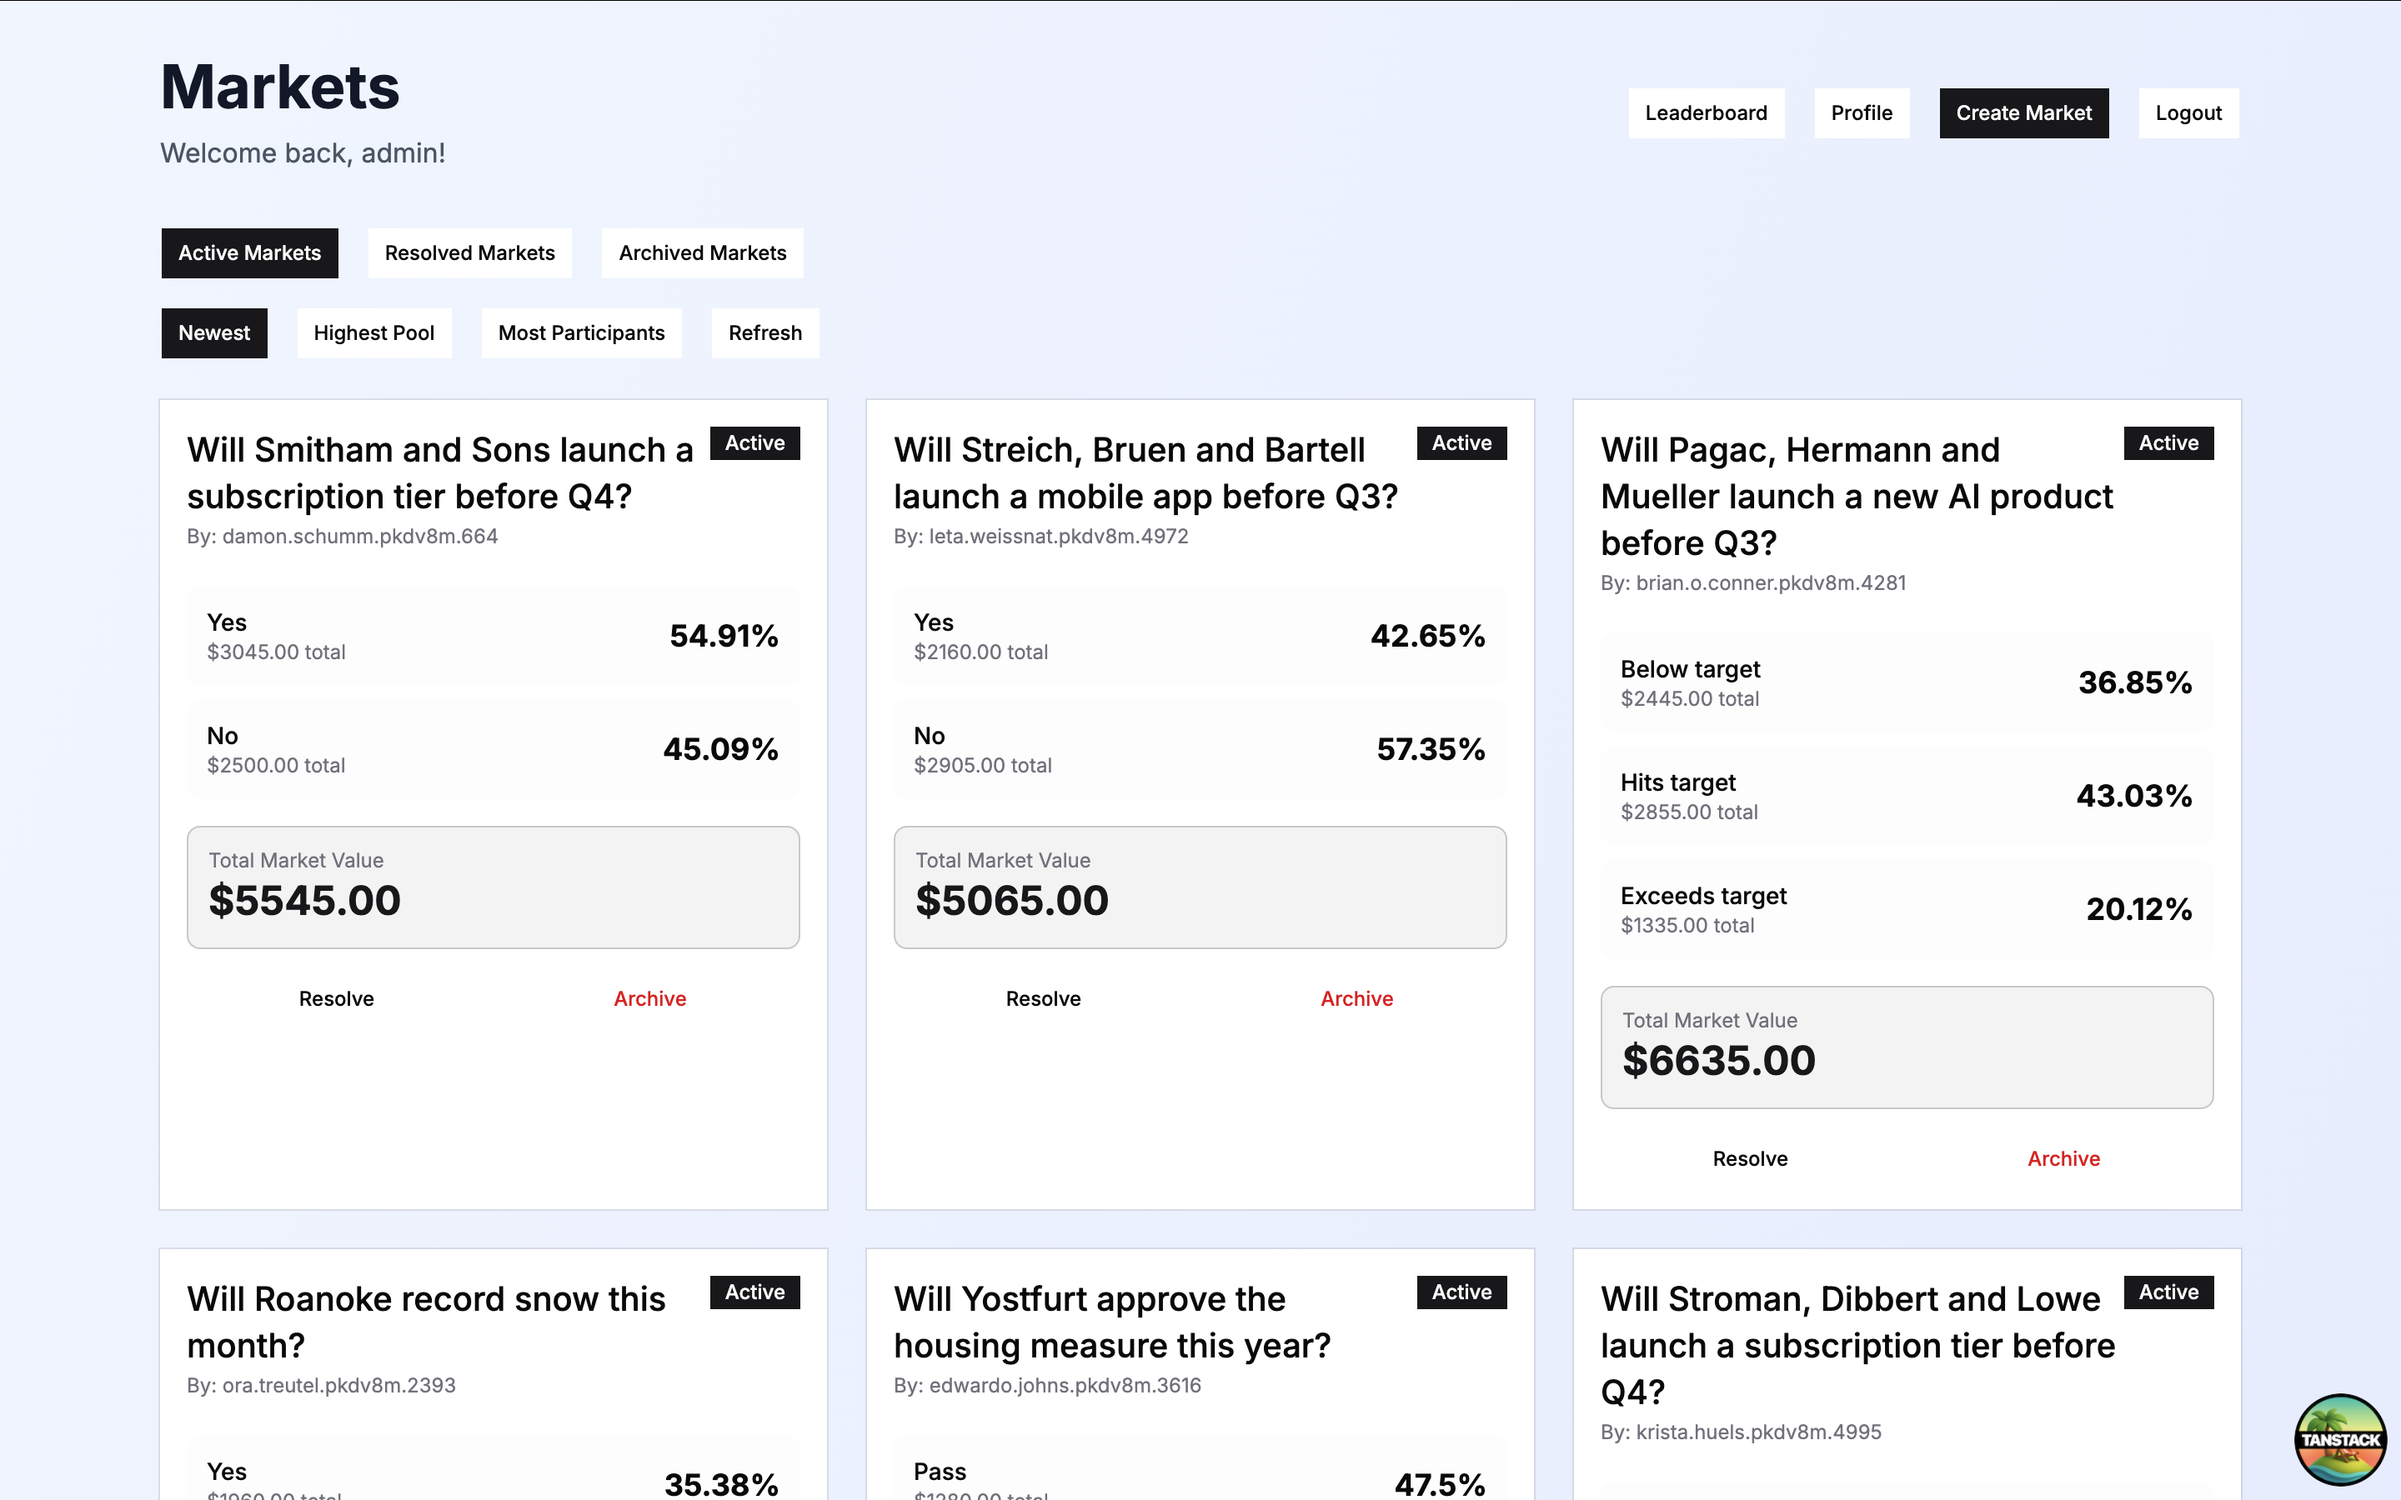
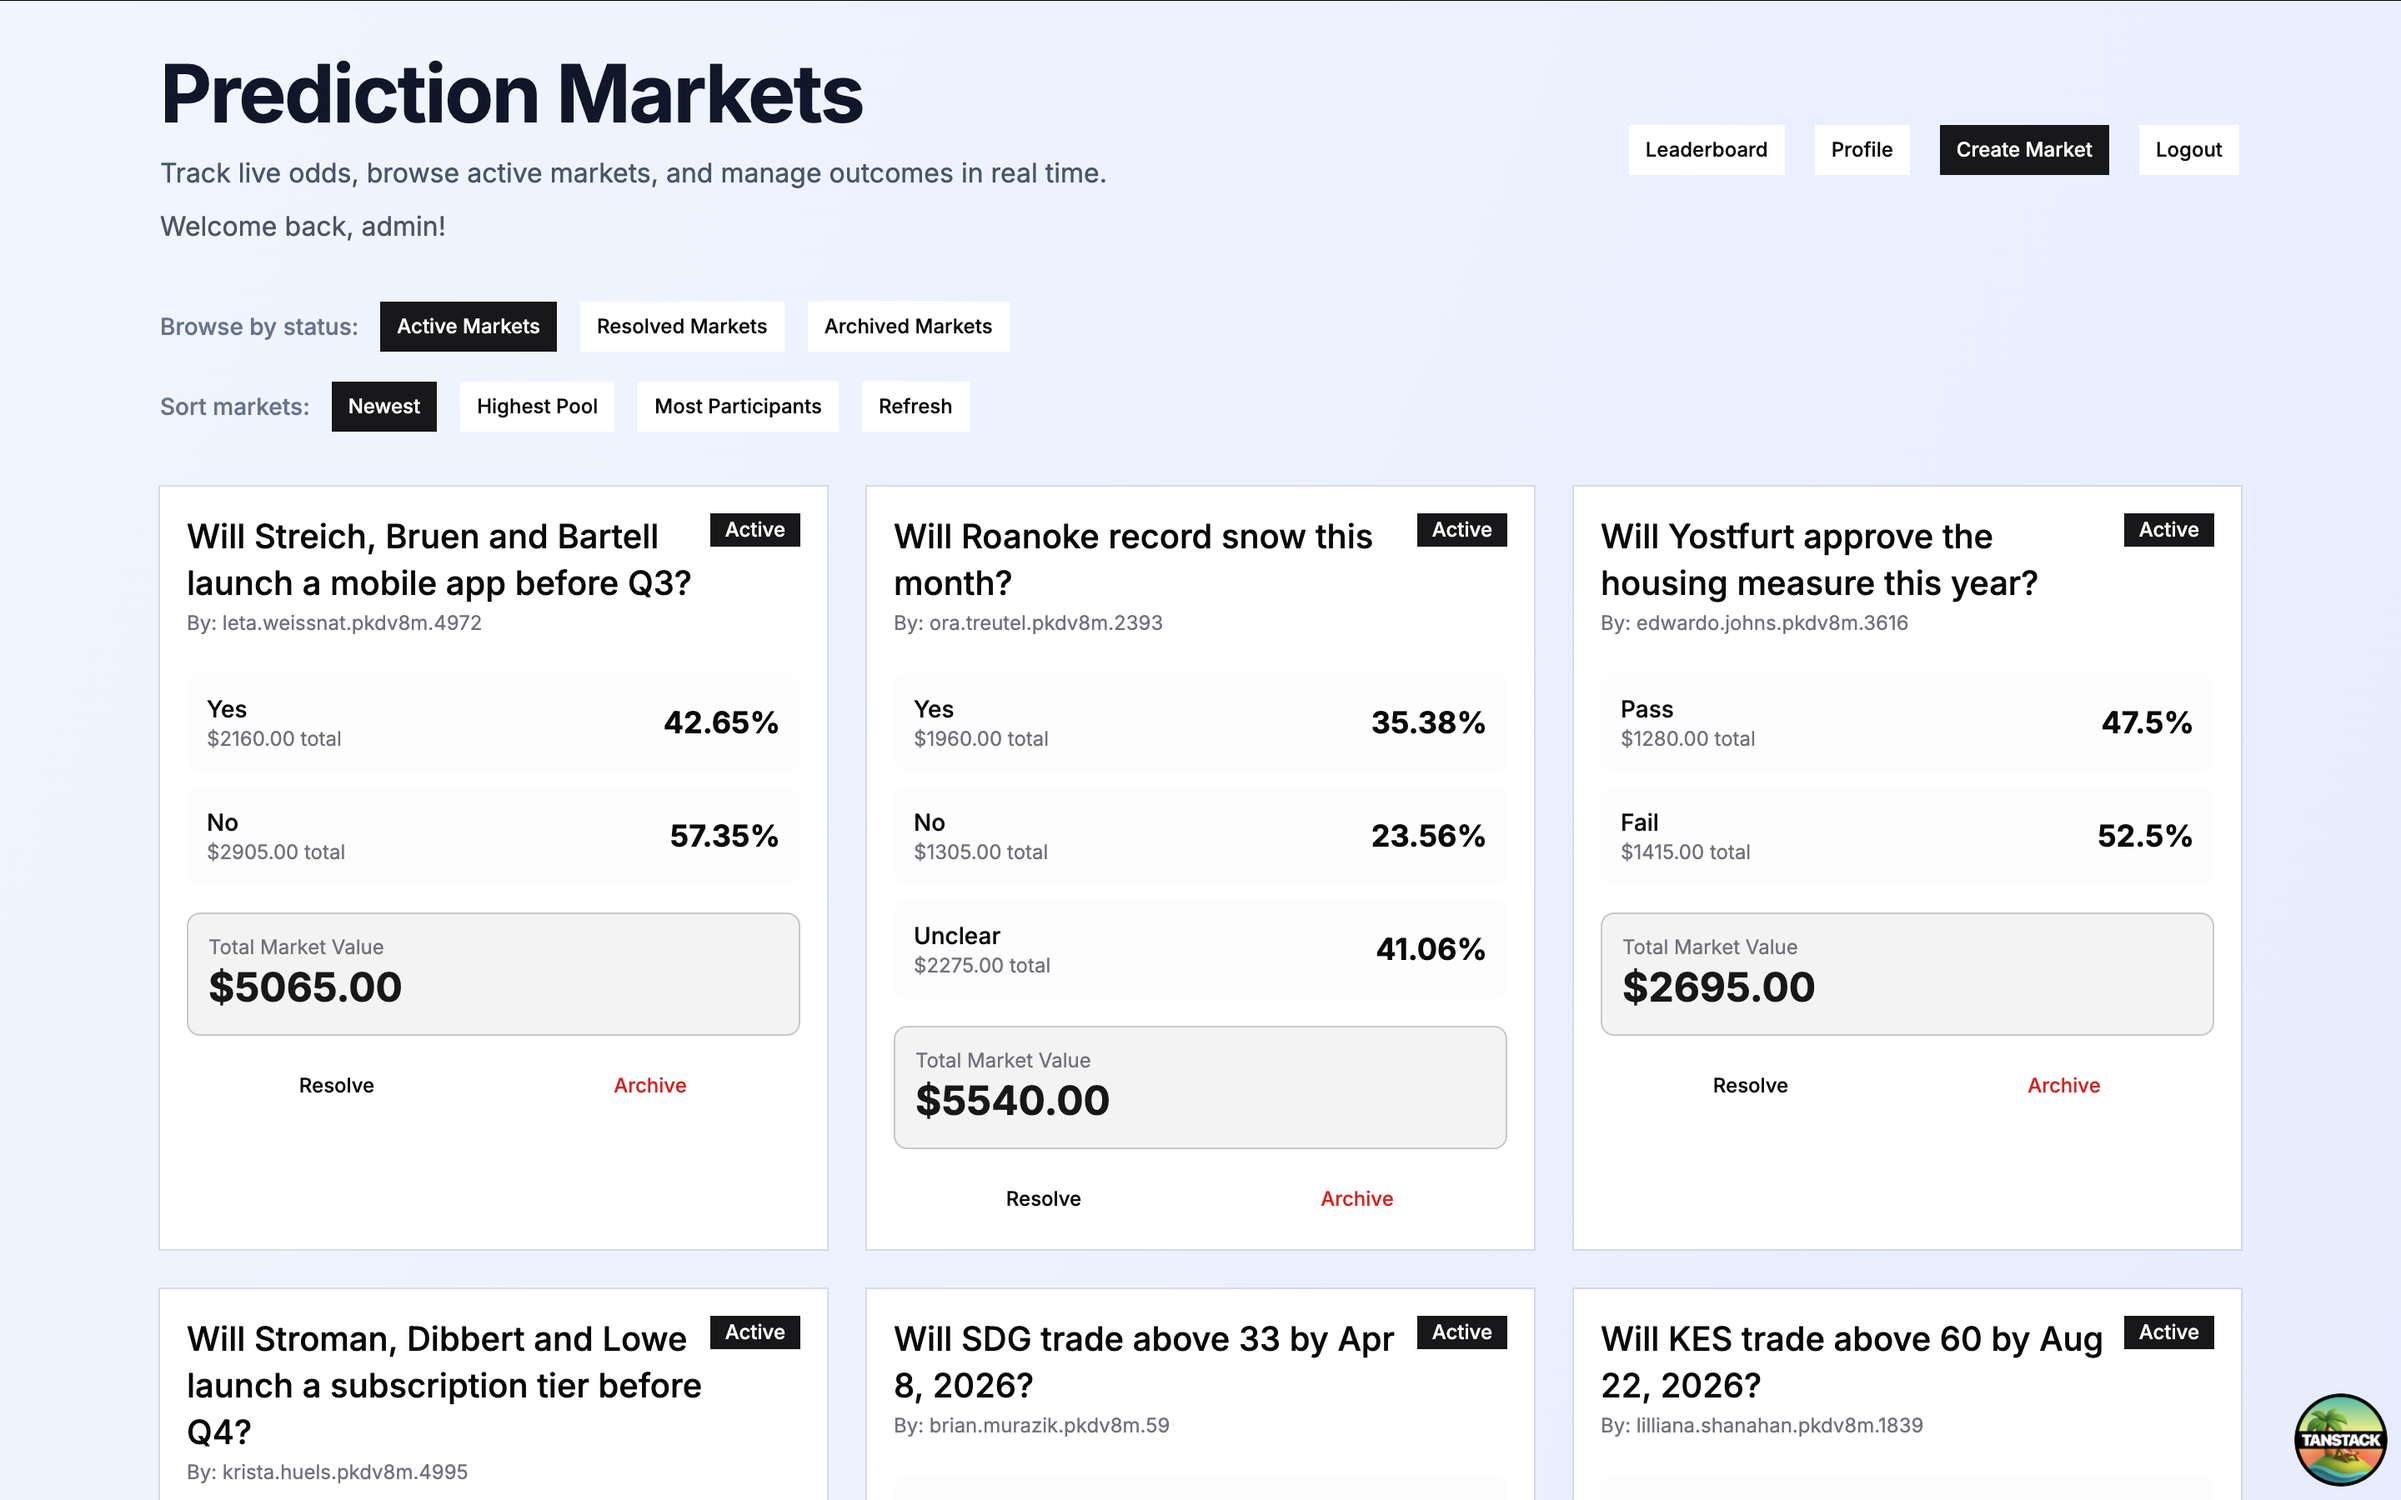
docs: improve README and refine profile page UI

diff --git a/client/src/components/market-card.tsx b/client/src/components/market-card.tsx
@@ -29,6 +29,7 @@ export function MarketCard({ market, isAdmin }: MarketCardProps) {
   const navigate = useNavigate();
   const [isArchiving, setIsArchiving] = useState(false);
   const [isArchiveDialogOpen, setIsArchiveDialogOpen] = useState(false);
+
   const handleArchive = async () => {
     try {
       setIsArchiving(true);
@@ -42,7 +43,7 @@ export function MarketCard({ market, isAdmin }: MarketCardProps) {
   };
 
   return (
-    <Card>
+    <Card className="flex flex-col">
       <CardHeader>
         <div className="flex items-start justify-between">
           <div className="flex-1">
@@ -59,8 +60,8 @@ export function MarketCard({ market, isAdmin }: MarketCardProps) {
         </div>
       </CardHeader>
 
-      <CardContent className="space-y-4">
-        {/* Outcomes */}
+      <CardContent className="flex flex-col flex-1 space-y-4">
+        {/* Outcomes — cresc cât au nevoie, indiferent de câte sunt */}
         <div className="space-y-2">
           {market.outcomes.map((outcome) => (
             <div
@@ -80,92 +81,95 @@ export function MarketCard({ market, isAdmin }: MarketCardProps) {
           ))}
         </div>
 
-        {/* Total Market Value */}
-        <div className="p-3 rounded-md border border-primary/20 bg-primary/5">
-          <p className="text-xs text-muted-foreground">Total Market Value</p>
-          <p className="text-2xl font-bold text-primary">
-            ${market.totalMarketBets.toFixed(2)}
-          </p>
-        </div>
+        {/* Spacer — împinge TMV + buton mereu în jos */}
+        <div className="flex-1" />
 
-        {/* Main Action */}
-        {!isAdmin && (
-          <Button
-            className="w-full"
-            onClick={() => navigate({ to: `/markets/${market.id}` })}
-          >
-            {market.status === "active" ? "Place Bet" : "View Results"}
-          </Button>
-        )}
+        {/* Bloc fix la baza cardului: TMV + acțiune */}
+        <div className="space-y-3">
+          <div className="p-3 rounded-md border border-primary/20 bg-primary/5">
+            <p className="text-xs text-muted-foreground">Total Market Value</p>
+            <p className="text-2xl font-bold text-primary">
+              ${market.totalMarketBets.toFixed(2)}
+            </p>
+          </div>
 
-        {/* Admin Shortcuts */}
-        {isAdmin && market.status === "active" && (
-          <div className="flex gap-2">
+          {!isAdmin && (
             <Button
-              size="sm"
-              variant="outline"
-              className="flex-1"
+              className="w-full"
               onClick={() => navigate({ to: `/markets/${market.id}` })}
             >
-              Resolve
+              {market.status === "active" ? "Place Bet" : "View Results"}
             </Button>
+          )}
 
-            <Dialog
-              open={isArchiveDialogOpen}
-              onOpenChange={setIsArchiveDialogOpen}
-            >
-              <DialogTrigger asChild>
-                <Button
-                  size="sm"
-                  variant="outline"
-                  className="flex-1 border-red-300 text-red-600 hover:bg-red-50"
-                  disabled={isArchiving}
-                >
-                  Archive
-                </Button>
-              </DialogTrigger>
+          {isAdmin && market.status === "active" && (
+            <div className="flex gap-2">
+              <Button
+                size="sm"
+                variant="outline"
+                className="flex-1"
+                onClick={() => navigate({ to: `/markets/${market.id}` })}
+              >
+                Resolve
+              </Button>
 
-              <DialogContent>
-                <DialogHeader>
-                  <DialogTitle>Archive market</DialogTitle>
-                  <DialogDescription>
-                    This will close the market and refund all placed bets back
-                    to users.
-                  </DialogDescription>
-                </DialogHeader>
-
-                <div className="rounded-md border border-slate-200 bg-slate-50 p-4">
-                  <p className="text-sm text-muted-foreground">
-                    No winning outcome will be selected. All bettors will
-                    receive their original stake back.
-                  </p>
-                </div>
-
-                <DialogFooter className="flex justify-between items-center pt-4">
+              <Dialog
+                open={isArchiveDialogOpen}
+                onOpenChange={setIsArchiveDialogOpen}
+              >
+                <DialogTrigger asChild>
                   <Button
-                    variant="ghost"
-                    onClick={() => setIsArchiveDialogOpen(false)}
-                    disabled={isArchiving}
-                  >
-                    Cancel
-                  </Button>
-
-                  <Button
+                    size="sm"
                     variant="outline"
-                    className="border-slate-900 text-slate-900 hover:bg-slate-100"
-                    onClick={async () => {
-                      await handleArchive();
-                      setIsArchiveDialogOpen(false);
-                    }}
+                    className="flex-1 border-red-300 text-red-600 hover:bg-red-50"
                     disabled={isArchiving}
                   >
-                    {isArchiving ? "Archiving..." : "Confirm Archive"}
+                    Archive
                   </Button>
-                </DialogFooter>
-              </DialogContent>
-            </Dialog>
-          </div>
-        )}
+                </DialogTrigger>
+
+                <DialogContent>
+                  <DialogHeader>
+                    <DialogTitle>Archive market</DialogTitle>
+                    <DialogDescription>
+                      This will close the market and refund all placed bets back
+                      to users.
+                    </DialogDescription>
+                  </DialogHeader>
+
+                  <div className="rounded-md border border-slate-200 bg-slate-50 p-4">
+                    <p className="text-sm text-muted-foreground">
+                      No winning outcome will be selected. All bettors will
+                      receive their original stake back.
+                    </p>
+                  </div>
+
+                  <DialogFooter className="flex justify-between items-center pt-4">
+                    <Button
+                      variant="ghost"
+                      onClick={() => setIsArchiveDialogOpen(false)}
+                      disabled={isArchiving}
+                    >
+                      Cancel
+                    </Button>
+
+                    <Button
+                      variant="outline"
+                      className="border-slate-900 text-slate-900 hover:bg-slate-100"
+                      onClick={async () => {
+                        await handleArchive();
+                        setIsArchiveDialogOpen(false);
+                      }}
+                      disabled={isArchiving}
+                    >
+                      {isArchiving ? "Archiving..." : "Confirm Archive"}
+                    </Button>
+                  </DialogFooter>
+                </DialogContent>
+              </Dialog>
+            </div>
+          )}
+        </div>
       </CardContent>
     </Card>
   );

diff --git a/client/src/routes/__root.tsx b/client/src/routes/__root.tsx
@@ -10,8 +10,12 @@ function NotFoundComponent() {
     <div className="min-h-screen flex items-center justify-center bg-gradient-to-br from-blue-50 to-indigo-100">
       <div className="text-center">
         <h1 className="text-6xl font-bold mb-4 text-gray-900">404</h1>
-        <p className="text-2xl font-semibold text-gray-700 mb-2">Page Not Found</p>
-        <p className="text-gray-600 mb-8">The page you are looking for does not exist.</p>
+        <p className="text-2xl font-semibold text-gray-700 mb-2">
+          Page Not Found
+        </p>
+        <p className="text-gray-600 mb-8">
+          The page you are looking for does not exist.
+        </p>
         <a
           href="/"
           className="inline-block px-6 py-3 bg-blue-600 text-white rounded-lg hover:bg-blue-700"

diff --git a/client/src/routes/profile.tsx b/client/src/routes/profile.tsx
@@ -88,7 +88,9 @@ function ProfilePage() {
 
         <Card>
           <CardHeader>
-            <CardTitle className="text-4xl">Profile</CardTitle>
+            <CardTitle>
+              <div className="text-4xl font-bold text-gray-900">Profile</div>
+            </CardTitle>
           </CardHeader>
           <CardContent>
             {isLoading ? (

diff --git a/submission/README.md b/submission/README.md
@@ -2,11 +2,11 @@
 
 ## Short Description
 
-This project is a full-stack prediction markets application where users can create markets, place bets on different outcomes, and track results in real time.
+This project is a full-stack prediction markets application that allows users to create markets, place bets on different outcomes, and track results in real time.
 
-It supports both user and admin roles, real-time updates via polling, market resolution with proportional payout distribution, and full lifecycle management (active, resolved, archived markets).
+The platform supports both user and admin roles, with clear separation of responsibilities (users place bets, admins resolve and manage markets). It includes real-time updates via polling, proportional payout distribution, and full market lifecycle management (active, resolved, archived).
 
-The application focuses on clean UI/UX, real-time data handling, and end-to-end functionality from database to frontend.
+The application emphasizes clean UI/UX, robust API design, and end-to-end functionality, covering everything from database operations to an interactive frontend experience.
 
 ---
 
@@ -16,13 +16,13 @@ The application focuses on clean UI/UX, real-time data handling, and end-to-end 
 
 Covers browsing markets, placing bets, and tracking activity in the profile.
 
-https://drive.google.com/file/d/1XbIL5XZJ3juE5ramPAN-79K19UdrCJHk/view?usp=sharing
+https://drive.google.com/file/d/1RWcM9igWKE-xsnyEa1ZTCEeyqfzi8_XA/view?usp=sharing
 
 ### Admin Flow
 
 Covers resolving and archiving markets, including payout distribution.
 
-https://drive.google.com/file/d/1GcQQJ158CI9ZsuEDbiFJ7QL-g3L0NaR-/view?usp=sharing
+https://drive.google.com/file/d/1NOS9kX4iOMhxJxaJTnBKD9VC8kcQUJnc/view?usp=sharing
 
 ---
 
